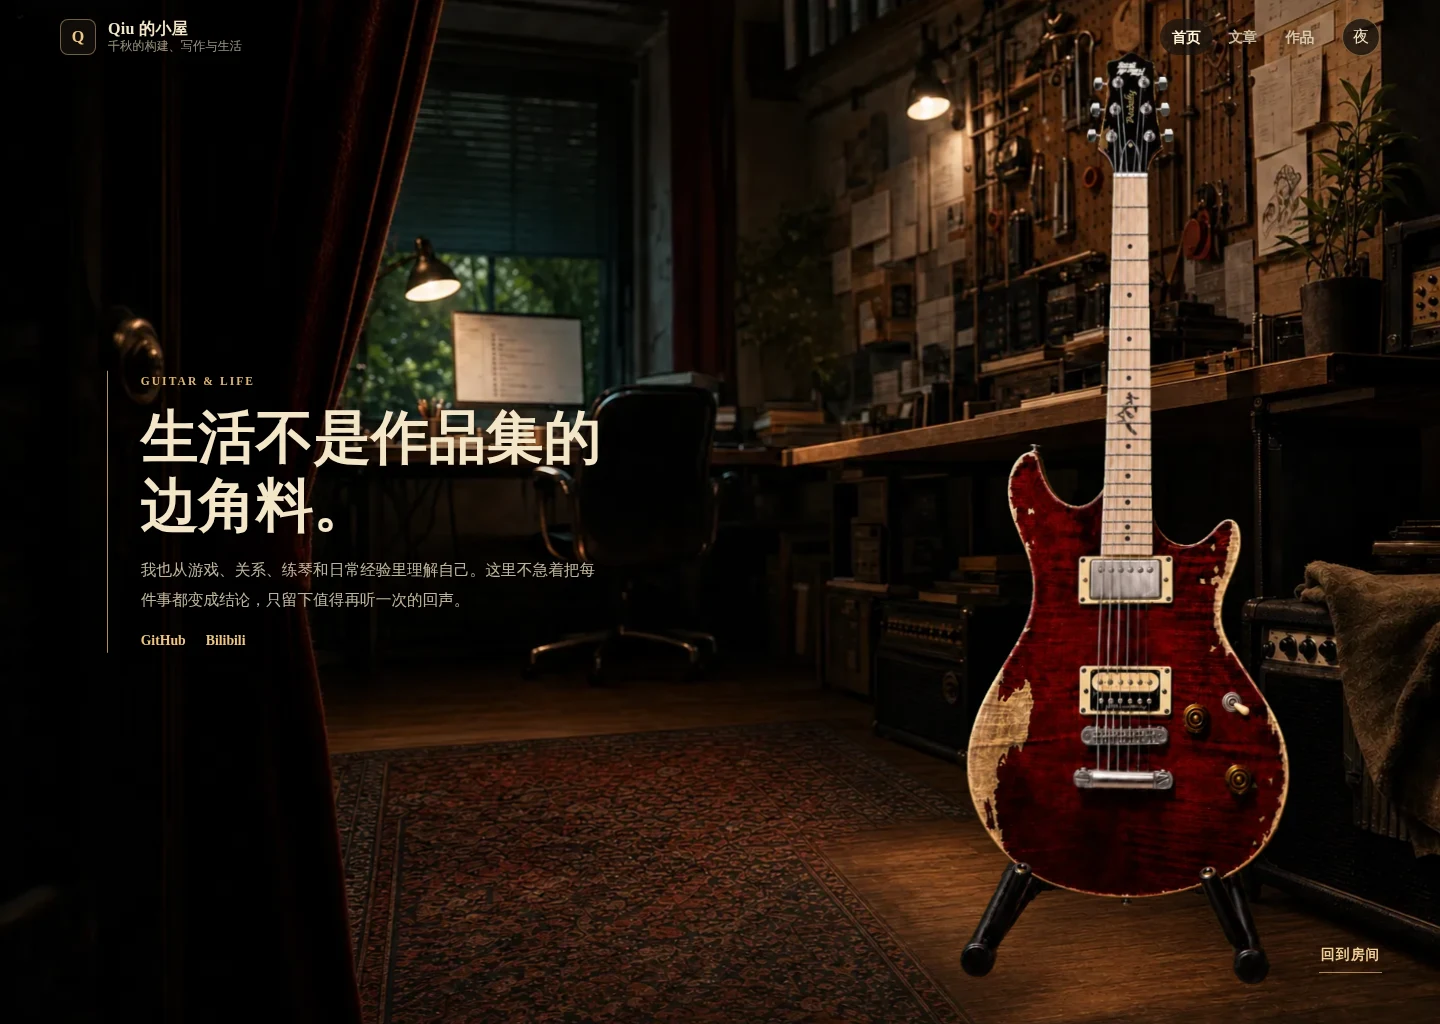
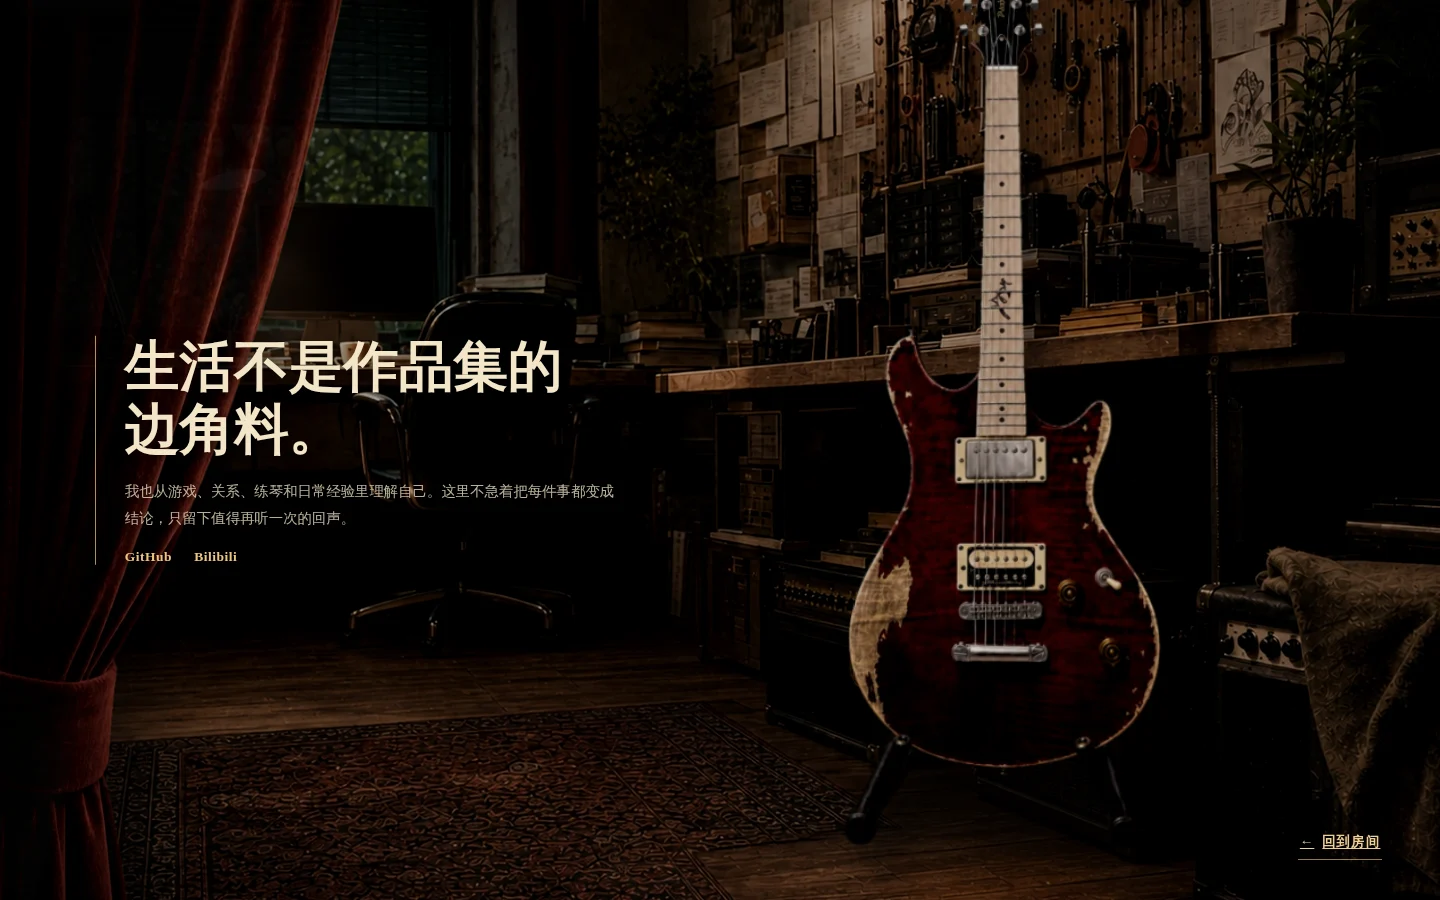
docs(design): 记录持续场景验收证据

diff --git a/docs/qa/screenshots/interactive-room/README.md b/docs/qa/screenshots/interactive-room/README.md
@@ -1,0 +1,38 @@
+# 持续场景式首页验收证据
+
+本目录记录 2026-07-15 对首页 2.5D 房间的实际浏览器验收。截图来自 `npm run build` 后的 `npm run preview`；当前环境没有 Browser 插件，因此按仓库测试流程使用本地 Playwright Chromium 回退完成截图、交互与控制台检查。
+
+## 视觉状态
+
+- [桌面全景](./home-overview-1440.webp)：1440 × 900，首屏静止状态。
+- [书桌移动中段](./home-writing-midpoint-1440.webp)：全景与书桌近景正在对位，不是导航后的新页面。
+- [书桌落点](./home-writing-focus-1440.webp)：真实文章索引落入显示器。
+- [工作台落点](./home-projects-focus-1440.webp)：真实项目数据落入桌面黑色工作垫。
+- [吉他与生活](./home-life-focus-1440.webp)：原场景内聚焦吉他并展开生活侧记。
+- [375px 全景](./home-mobile-375.webp)、[书桌](./home-writing-mobile-375.webp)、[工作台](./home-projects-mobile-375.webp)。
+- [768px 竖屏全景](./home-overview-tablet-768.webp)、[书桌](./home-writing-tablet-768.webp)。
+- [参考构图与实现并排](./reference-vs-home-1440.webp)、[琴头与指板细节](./guitar-headstock-fretboard-detail.webp)。
+
+## 保真账本
+
+| 检查点 | 结果 | 证据与取舍 |
+| --- | --- | --- |
+| 单一房间构图 | 通过 | 书桌留在左后方、工程工作台留在右后方、吉他位于右前景，保持参考图的空间阅读顺序。 |
+| 持续场景而非延迟跳转 | 通过 | 点击文章或作品后路径仍为 `/`，只更新 `#writing-desk` 或 `#project-workbench`；落点内容在原场景中出现。 |
+| 镜头移动 | 通过 | 2.4 秒内分别驱动底图缩放、近景对位、帷幕位移、吉他前景位移、曝光变化和轻微步态起伏；中段截图可见对位过程。 |
+| 吉他身份细节 | 通过 | 使用独立的用户吉他前景，保留旧化酒红琴身、琴头、拾音器与琴架，以及 3/5/7/9/15/17/19/21 圆点和跨 11–13 品的 `m` 记号。 |
+| 内容与物件融合 | 通过 | 最近三篇文章按显示器内框排版，三个真实项目按黑色工作垫透视区排版；没有虚构截图、指标或状态。 |
+| 首屏比例稳定 | 通过 | 页面载入与 600ms 后 `.room-world` 都为单位矩阵；旧的 `room-enter` 首屏缩放已删除。 |
+| 4K 与响应式图片 | 通过 | 三张空间母版均为 3840 × 2160；3840 × 2160 浏览器实际选择 3840 × 2160 资源，小视口由 Astro 输出较小衍生图。 |
+| 竖屏适配 | 通过 | 768px 与 375px 均无页面级横向溢出；竖屏落点使用场景内的可读面板，不强行裁切桌面端透视坐标。 |
+| 渐进增强 | 通过 | `prefers-reduced-motion: reduce` 下移动状态立即完成且 CSS 过渡为 `0s`；关闭 JavaScript 后三个 hash 落点与返回链接可用。 |
+
+与静态概念图相比，生产实现有两个有意差异：不保留概念图中的装饰性地面光圈；吉他改用用户指定的实物身份细节，而不是概念图里的泛化乐器。两项都服务于真实内容与可交互场景，而不是视觉降级。
+
+## 浏览器检查结果
+
+- 1440 × 900、768 × 1024、375 × 812：页面级横向溢出均为 `0`。
+- 首页载入前后场景矩阵一致，没有由大变小。
+- 文章、作品、生活三个状态均能返回全景，`Escape` 与浏览器历史状态可用。
+- 交互过程中没有控制台错误或未捕获异常。
+- 3840 × 2160 视口的全景图 `naturalWidth × naturalHeight` 为 `3840 × 2160`。

diff --git a/docs/qa/visual-checklist.md b/docs/qa/visual-checklist.md
@@ -19,12 +19,17 @@ Always check light and dark mode for changed routes.
 
 - Header brand, nav, and theme toggle fit without wrapping awkwardly.
 - The first viewport reads as Qiu's personal rehearsal room rather than a product landing page or metrics dashboard.
-- The room, title, three hotspots, and full guitar silhouette remain legible without overlap at desktop and tablet widths.
+- The room, title, three hotspots, and guitar identity remain legible without layout-breaking overlap at desktop, tablet, and mobile widths.
 - The guitar keeps the approved headstock, relic body, pickup layout, stand, fret-marker sequence, and the 11–13 fret `m` marker.
-- Article and project hotspots perform one camera move before opening `/blog/` and `/projects/`; modified clicks keep native link behavior.
+- Initial load keeps the room and guitar at one stable matrix; there is no large-to-small entrance animation or late proportion shift.
+- Article and project hotspots keep the visitor on `/`, update only the hash, and finish with real article/project data aligned to the physical monitor or drafting mat.
+- At an early, middle, and late transition sample, the room, curtain, guitar, focus plate, and exposure move at different rates without a hard cut or a frozen loading interval.
+- Scene rows and “all” links still navigate to the existing article and project routes normally.
 - Guitar & Life focuses the guitar and reveals the life note in place; Escape and “回到房间” restore the overview.
 - At 375px the hotspots form a usable bottom dock, the title stays readable, and no page-level horizontal scroll appears.
-- With JavaScript disabled, article and project links still navigate and `#life-note` still reveals the life copy.
+- At 768px portrait, focus content stays fully inside the viewport rather than being cropped with the 16:9 scene.
+- At a 3840 × 2160 viewport, the overview plate resolves to a 3840 × 2160 source; smaller viewports receive responsive derivatives.
+- With JavaScript disabled, `#writing-desk`, `#project-workbench`, and `#life-corner` expose their content and the return link works without script.
 
 ## Blog Index
 
@@ -64,8 +69,8 @@ Always check light and dark mode for changed routes.
 
 ## Motion And Progressive Enhancement
 
-- Homepage camera transitions complete once, do not trap scrolling, and do not delay navigation longer than the intended transition.
-- With `prefers-reduced-motion: reduce`, homepage route links navigate immediately and the life note appears without camera movement.
+- Homepage camera transitions complete once, do not trap focus, and settle into the selected in-room state in about 2.4 seconds.
+- With `prefers-reduced-motion: reduce`, the selected in-room state and its content appear immediately without camera displacement, fading, progress motion, or smooth scrolling.
 - Below-the-fold reveal items enter once with no more than 8px movement and no more than three stagger steps.
 - Hero copy and article body are readable immediately and never wait for scroll animation.
 - With `prefers-reduced-motion: reduce`, reveal transitions and hover translation are disabled.

diff --git a/docs/uiux/person-first-editorial-system.md b/docs/uiux/person-first-editorial-system.md
@@ -15,12 +15,15 @@
 
 - 基调是暖纸、深绿、暖橙和中文编辑排版。
 - 全站共享一个来自左上方的桌边光源；纸页、封面和便笺使用同一阴影方向。
-- 首页是这套语言的空间化例外：使用暗红帷幕、暖钨丝灯、书桌与工作台组成单一 2.5D 房间，不把内容切成卡片瀑布。
+- 首页是这套语言的空间化例外：使用暗红帷幕、暖钨丝灯、书桌与工作台组成一个持续存在的 2.5D 房间，不把内容切成卡片瀑布。
+- 房间全景、书桌近景和工作台近景使用 4K 母版，并交给 Astro 按视口输出响应式版本；帷幕、吉他和空间底图保持独立景深层，不能重新烘焙成一张只会整体缩放的背景图。
 - 首页的酒红色旧化吉他以用户提供的实物参考为准；琴头、混合桥位拾音器、旧化位置，以及 3/5/7/9/15/17/19/21 圆点和跨 11–13 品的 12 品 `m` 记号都属于身份细节，不得随意替换。
 - 中文衬线体用于标题，无衬线体用于正文，等宽体只用于仓库名和技术元信息。
 - 使用开放的索引、轨道、纸页和 dossier，不堆叠通用卡片或玻璃面板。
-- 首页允许一次自然的镜头平移与推近：文章和作品在转场后进入既有路由，吉他在原页展开生活侧记；不使用 WebGL、Canvas、滚动劫持或持续鼠标追踪。
-- 文章正文保持静止；所有镜头和入场动效完整尊重 `prefers-reduced-motion`，JavaScript 关闭时三个入口仍然可用。
+- 首页的三个物件入口只改变同一页面里的房间状态：书桌最终把真实文章索引落入显示器，工作台最终把真实工程档案落入桌垫，吉他在原地展开生活侧记；入口本身不得用延迟跳转伪装镜头移动。
+- 镜头由全景缩放、近景对位、帷幕位移、吉他前景位移、轻微步态起伏和后段内容显影共同组成，单程约 2.4 秒；抵达后 URL 只记录 `#writing-desk`、`#project-workbench` 或 `#life-corner`，站点原有路由继续由场景内的真实链接承接。
+- 不使用 WebGL、Canvas、滚动劫持、持续鼠标追踪或新增运行时依赖。首页不能在首次载入时播放缩放动画，避免物件比例由大变小。
+- 文章正文保持静止；所有镜头和入场动效完整尊重 `prefers-reduced-motion`。JavaScript 关闭时三个 hash 落点和返回链接仍然可用，内容默认可见且可访问。
 
 ## 内容边界
 
@@ -38,3 +41,4 @@
 2. 工程、写作与生活是否都能被发现，同时没有一个侧面吞没其他侧面？
 3. 页面是否仍适合长中文内容、键盘操作、移动端和深色模式？
 4. 装饰、动效和界面文案是否来自真实内容关系，而不是模板惯性？
+5. 镜头抵达后是否仍在同一房间，而不是把一次普通路由跳转包装成动画？

diff --git a/README.md b/README.md
@@ -10,11 +10,11 @@
 
 ## 🌟 核心特性
 
-- **人本房间与编辑工作台**：首页以可探索的个人排练室容纳写作、工程与生活入口，内页延续安静的编辑出版语言。
+- **持续场景式个人房间**：首页以 4K 2.5D 排练室容纳写作、工程与生活，点击物件会在同一空间里自然推近并把真实内容落入显示器或工作台。
 - **动态博客系统**：基于 Astro 6.0 Content Collections 构建，支持 Markdown 编写并自动生成 SEO Meta 头和站点地图。
 - **长文动态目录**：博客文章页支持滚动联动目录，并针对中文长文、代码块、表格和图片优化阅读体验。
 - **智能深色模式**：自动识别系统级别深色偏好，且记住用户手动调整的深色/浅色状态，消除加载闪烁（FOUC）。
-- **组件化设计**：主页信息卡片自适应布局，并动态拉取展示最新的 3 篇博客文章。
+- **真实内容驱动**：房间内直接读取最新文章和重点项目，场景入口、无 JavaScript hash 落点与既有内容路由互相衔接。
 - **性能优化**：使用 Astro 原生图像优化（`astro:assets`）和极低的 CSS 与 JS 体积，秒级加载。
 
 ## 🛠 本地开发与预览
